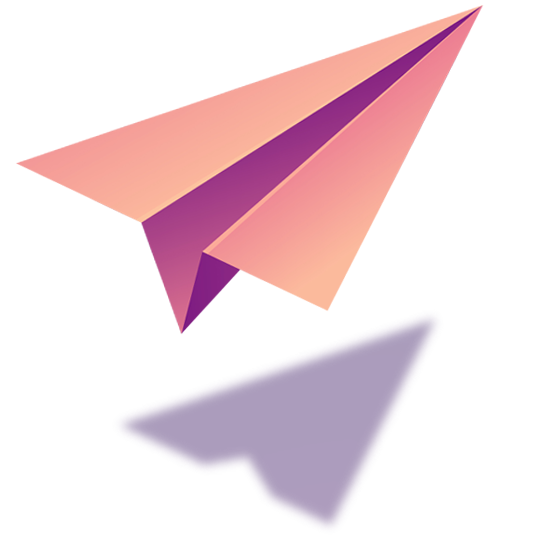
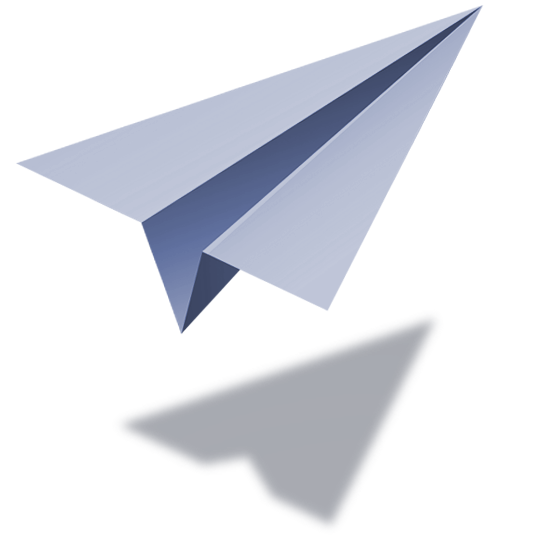
auth forms color schema inprocess

Changed region(s): [[0.0309, 0.0, 0.8964, 0.6182]]

diff --git a/client/src/components/pages/Authentication/ResetPassword.jsx b/client/src/components/pages/Authentication/ResetPassword.jsx
@@ -26,7 +26,7 @@ function ResetPassword() {
   const [formStatus, setFormStatus] = useState(true);
 
   const dispatch = useDispatch();
-  const watchFields = watch({email: "email"});
+  const watchFields = watch({ email: "email" });
 
   const onSubmit = (data) => {
     console.log("chick chick");
@@ -41,50 +41,56 @@ function ResetPassword() {
         setFormStatus
       )
     );
-  }
+  };
 
   return (
     <div className="main">
-      <div className={notificationStatus ? "notification-active" : "notification"}>
-          <SendPasswordLink
-            title={infoConstants.titleResetPasswordLink}
-            text={infoConstants.textResetPasswordLink}
-          />
-        </div>
-        <div className={formStatus ? "auth" : "auth-disabled"}>
-          <div className="auth-sidebar"></div>
-          <form className="auth-form" onSubmit={handleSubmit(onSubmit)}>
-            <div className="auth-form__title">
-              {formConstants.titleResetPasswordForm}
-            </div>
-            <div className="input-layer">
-              <div className="auth-form__input">
-                <FontAwesomeIcon icon={faEnvelope} className="input-icon" />
-                <input
-                  type="text"
-                  name="email"
-                  {...register("email", {
-                    required: formConstants.fillEmail,
-                    pattern: {
-                      value: REGEX.isValidEmail,
-                      message: formConstants.wrongEmailFormat,
-                    },
-                  })}
-                />
-                <span className={watchFields.email ? "lable-span" : ""}>{formConstants.yourEmail}</span>
-              </div>
-              <div className="form-error">
-                {errors.email && <p>{errors.email.message || "Error"}</p>}
-              </div>
-            </div>
-            <SubmitButton className={"submit-btn"} title={formConstants.send} />
-            <div className="auth-links">
-              <Link to="/">{formConstants.enter}</Link>
-              <Link to="/singup">{formConstants.register}</Link>
-            </div>
-          </form>
-        </div>
+      <div
+        className={notificationStatus ? "notification-active" : "notification"}
+      >
+        <SendPasswordLink
+          title={infoConstants.titleResetPasswordLink}
+          text={infoConstants.textResetPasswordLink}
+        />
       </div>
+      <div className={formStatus ? "auth" : "auth-disabled"}>
+        <div className="auth-sidebar"></div>
+      <div className="auth-info">
+        <form className="auth-form" onSubmit={handleSubmit(onSubmit)}>
+          <div className="auth-form__title">
+            {formConstants.titleResetPasswordForm}
+          </div>
+          <div className="input-layer">
+            <div className="auth-form__input">
+              <FontAwesomeIcon icon={faEnvelope} className="input-icon" />
+              <input
+                type="text"
+                name="email"
+                {...register("email", {
+                  required: formConstants.fillEmail,
+                  pattern: {
+                    value: REGEX.isValidEmail,
+                    message: formConstants.wrongEmailFormat,
+                  },
+                })}
+              />
+              <span className={watchFields.email ? "lable-span" : ""}>
+                {formConstants.yourEmail}
+              </span>
+            </div>
+            <div className="form-error">
+              {errors.email && <p>{errors.email.message || "Error"}</p>}
+            </div>
+          </div>
+          <SubmitButton className={"submit-btn"} title={formConstants.send} />
+          <div className="auth-links">
+            <Link to="/">{formConstants.enter}</Link>
+            <Link to="/singup">{formConstants.register}</Link>
+          </div>
+        </form>
+      </div>
+      </div>
+    </div>
   );
 }
 

diff --git a/client/src/components/form/forms.css b/client/src/components/form/forms.css
@@ -156,16 +156,6 @@
     font-family: inherit;
 }
 
-.main .auth-sidebar {
-    background-image: url("../../assets/portal/login.png");
-    background-position: center;
-    background-size: cover;
-    background-repeat: no-repeat;
-    min-width: 550px;
-    max-width: 550px;
-    width: 100%;
-}
-
 .main .auth-sidebar__info {
     display: flex;
     width: 100%;
@@ -275,11 +265,6 @@
     color: aliceblue;
     font-size: 95px;
     margin-bottom: 20px;
-}
-
-.main .auth-sidebar img {
-    width: 100%;
-    height: 100%;
 }
 
 .input-icon {
@@ -410,14 +395,51 @@
     font-family: 'Roboto Condensed', sans-serif;
 }
 
-.main {
+.auth {
+    background-color: darkcyan;
     display: flex;
+    align-items: center;
     justify-content: center;
+    width: 100%;
+}
+
+.main {
+    width: 100%;
+    height: 100vh;
 }
 
 .main .auth {
     display: flex;
-    min-height: 600px;
+    width: 100%;
+    background-color: #f1f5f9;
+}
+
+.main .auth-sidebar {
+    /* background-image: url("../../assets/portal/side-img.png");
+    background-position: center;
+    background-size: cover;
+    background-repeat: no-repeat; */
+    display: flex;
+    justify-content: center;
+    align-items: center;
+    height: 100vh;
+    width: 50%;
+    background-color: #2144ac;
+}
+
+.main .auth-sidebar img {
+    width: 100%;
+    height: auto;
+    max-width: 500px;
+}
+
+.main .auth-info {
+    background-color: #f1f5f9;
+    display: flex;
+    align-items: center;
+    justify-content: center;
+    width: 50%;
+    height: 100%;
 }
 
 .auth-form__title {
@@ -428,24 +450,6 @@
     text-transform: uppercase;
     margin-bottom: 15px;
     font-family: inherit;
-}
-
-.main .auth-sidebar {
-    background-position: center;
-    background-size: cover;
-    background-repeat: no-repeat;
-    min-width: 550px;
-    max-width: 550px;
-    width: 100%;
-}
-
-.main .auth-sidebar {
-    background-position: center;
-    background-size: cover;
-    background-repeat: no-repeat;
-    min-width: 550px;
-    max-width: 550px;
-    width: 100%;
 }
 
 .main .auth-sidebar__info {
@@ -544,17 +548,13 @@
     margin-bottom: 20px;
 }
 
-.main .auth-sidebar img {
-    width: 100%;
-    height: 100%;
-}
-
 .main .auth-form {
-    padding: 40px;
+    padding: 70px 40px;
     display: flex;
     flex-direction: column;
     justify-content: center;
     min-width: 400px;
+    max-width: 400px;
     background: rgb(255, 255, 255, .8);
     background-position: bottom;
     background-repeat: no-repeat;

diff --git a/client/src/components/pages/Authentication/Signup.jsx b/client/src/components/pages/Authentication/Signup.jsx
@@ -12,6 +12,7 @@ import { FontAwesomeIcon } from "@fortawesome/react-fontawesome";
 import { faEnvelope, faLock, faUser } from "@fortawesome/free-solid-svg-icons";
 import paperAirplane from "../../../assets/portal/paper_airplane.png";
 import { CSSTransition } from "react-transition-group";
+import SidebarImg from "../../../assets/portal/side-img.png"
 
 export default function Signup() {
 
@@ -92,6 +93,7 @@ export default function Signup() {
       </div>
       <div className={formStatus ? "auth" : "auth-disabled"}>
         <div className="auth-sidebar">
+          <img src={SidebarImg} />
           <div className="auth-sidebar__info">
             <div className="auth__notification">
               <CSSTransition
@@ -106,6 +108,7 @@ export default function Signup() {
             </div>
           </div>
         </div>
+        <div className="auth-info">
         <form className="auth-form" onSubmit={handleSubmit(onSubmit)}>
           <div className="auth-form__title">{formConstants.titleRegistrationForm}</div>
           <div className="input-layer">
@@ -234,6 +237,7 @@ export default function Signup() {
             </Link>
           </div>
         </form>
+        </div>
       </div>
     </div>
   );

diff --git a/client/src/components/pages/Authentication/Login.jsx b/client/src/components/pages/Authentication/Login.jsx
@@ -47,7 +47,10 @@ export default function Login() {
   return (
     <div className="main">
       <div className="auth">
-        <div className="auth-sidebar"></div>
+        <div className="auth-sidebar">
+        
+        </div>
+        <div className="auth-info">
         <form className="auth-form" onSubmit={handleSubmit(onSubmit)}>
           <div className="auth-form__title">{formConstants.titleLogin}</div>
           <div className="input-layer">
@@ -113,6 +116,7 @@ export default function Login() {
             <Link to="/singup">{formConstants.register}</Link>
           </div>
         </form>
+        </div>
       </div>
     </div>
   );

diff --git a/client/src/components/form/add-device/AddDevice.jsx b/client/src/components/form/add-device/AddDevice.jsx
@@ -54,7 +54,7 @@ export default function AddDevice({create}) {
   console.log("check memory");
 
   return (
-    <div className="main">
+    
       <form className="device-form" onSubmit={handleSubmit(onSubmit)}>
       <div className="device-form__title">{formConstants.newDeviceTitle}</div>
       <div className="device-form__input">
@@ -147,6 +147,5 @@ export default function AddDevice({create}) {
         <SubmitButton className={"submit-btn-medium"} title={uiConstants.titleAdd} />
         </div>
       </form>
-    </div>
   );
 }

diff --git a/client/src/components/pages/Authentication/SetNewPassword.jsx b/client/src/components/pages/Authentication/SetNewPassword.jsx
@@ -83,6 +83,7 @@ function SetNewPassword() {
             </div>
           </div>
         </div>
+        <div className="auth-info">
         <form className="auth-form" onSubmit={handleSubmit(onSubmit)}>
         <div className="auth-form__title">{formConstants.titleSetNewPasswordForm}</div>
           <div className="input-layer">
@@ -165,6 +166,7 @@ function SetNewPassword() {
           </Link>
           </div>
         </form>
+        </div>
         </div>
     </div>
   )

diff --git a/client/src/styles/App.css b/client/src/styles/App.css
@@ -142,9 +142,9 @@ h6 {
 
 .App-out {
     width: 100%;
-    background: #252339;
-    background-image: url("../assets/portal/bg-auth.jpg");
-    background-size: cover;
+    background-color: #062ee1;
+    /* background-image: url("../assets/portal/bg-auth.jpg");
+    background-size: cover; */
     height: 100vh;
     display: flex;
     justify-content: center;

diff --git a/client/src/components/pages/Devices/devices.css b/client/src/components/pages/Devices/devices.css
@@ -10,6 +10,11 @@
     border-radius: 8px;
     padding: 10px;
     box-shadow: 0 5px 5px -5px rgba(99, 108, 126, 0.3);
+    transition: all .5s;
+}
+
+.device:hover {
+    box-shadow: 0 10px 10px -10px rgba(99, 108, 126, 0.3);
 }
 
 .devices-title {

diff --git a/client/src/components/pages/Authentication/Authentication.css b/client/src/components/pages/Authentication/Authentication.css
@@ -20,5 +20,7 @@
 }
 
 .notification-active {
-    display: block;
+    display: flex;
+    justify-content: center;
+    align-items: center;
 }
